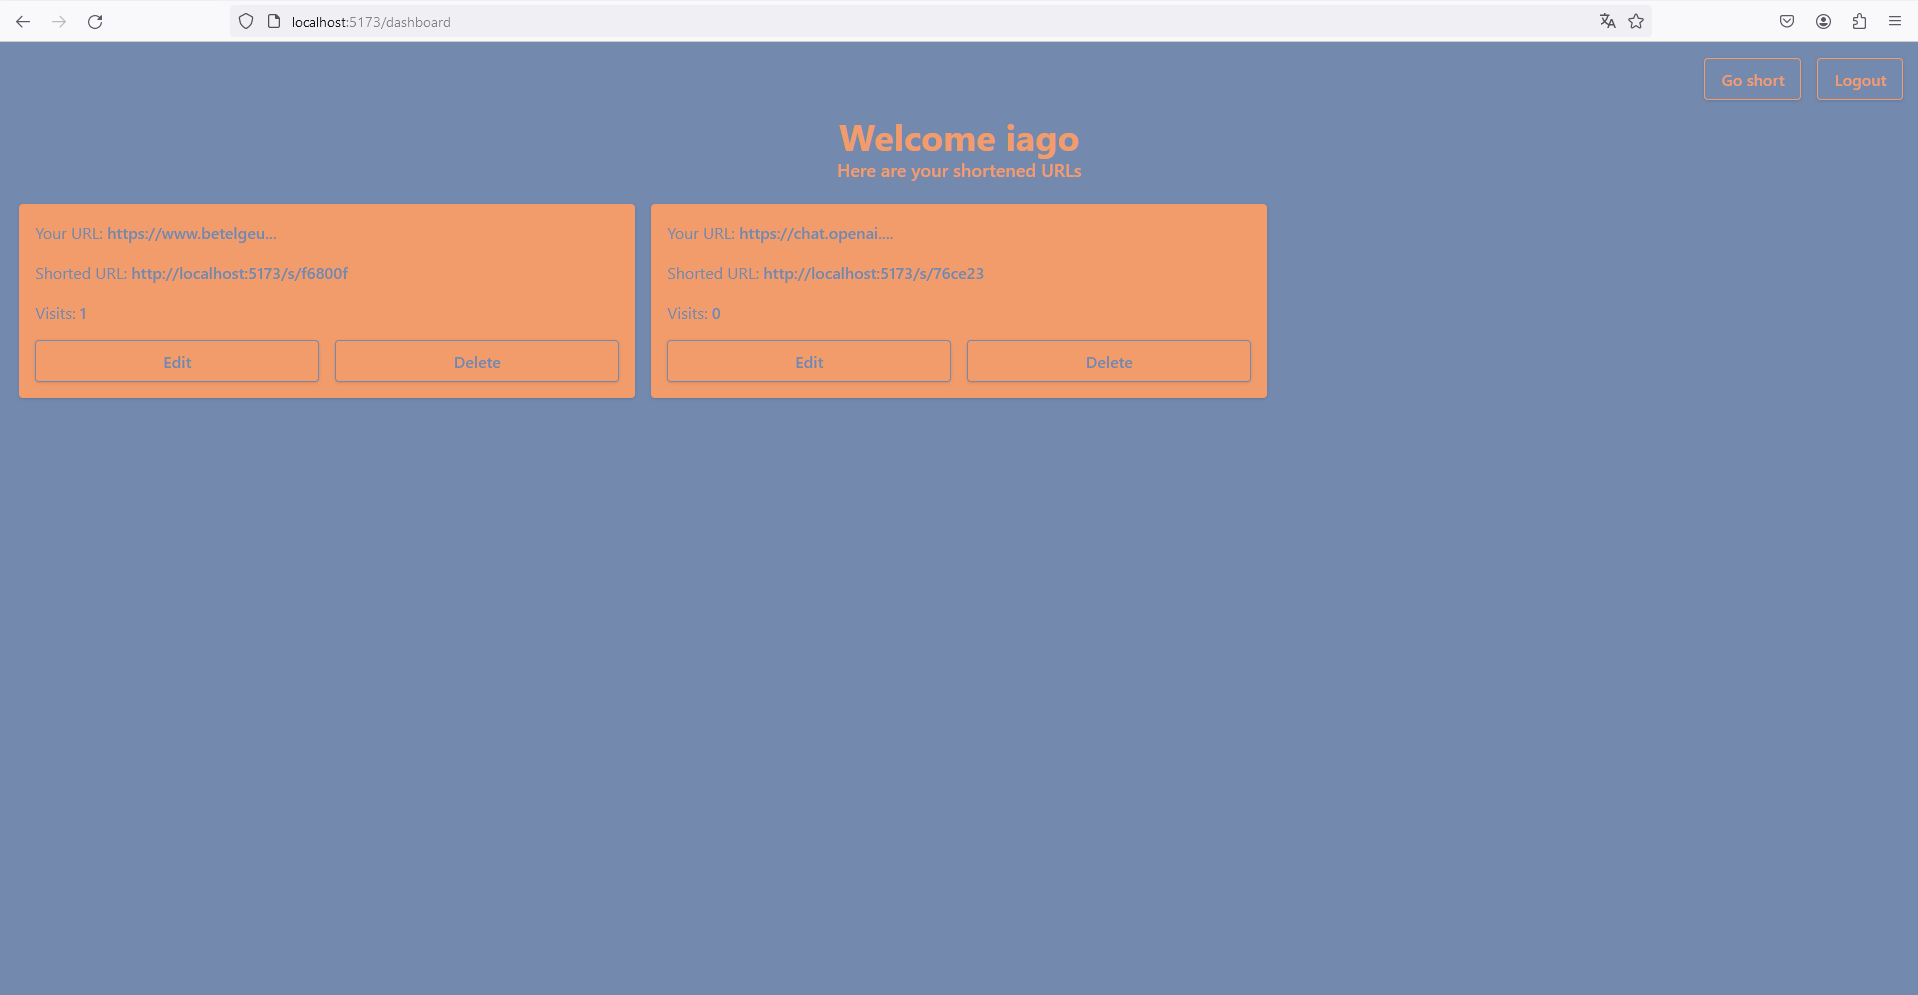
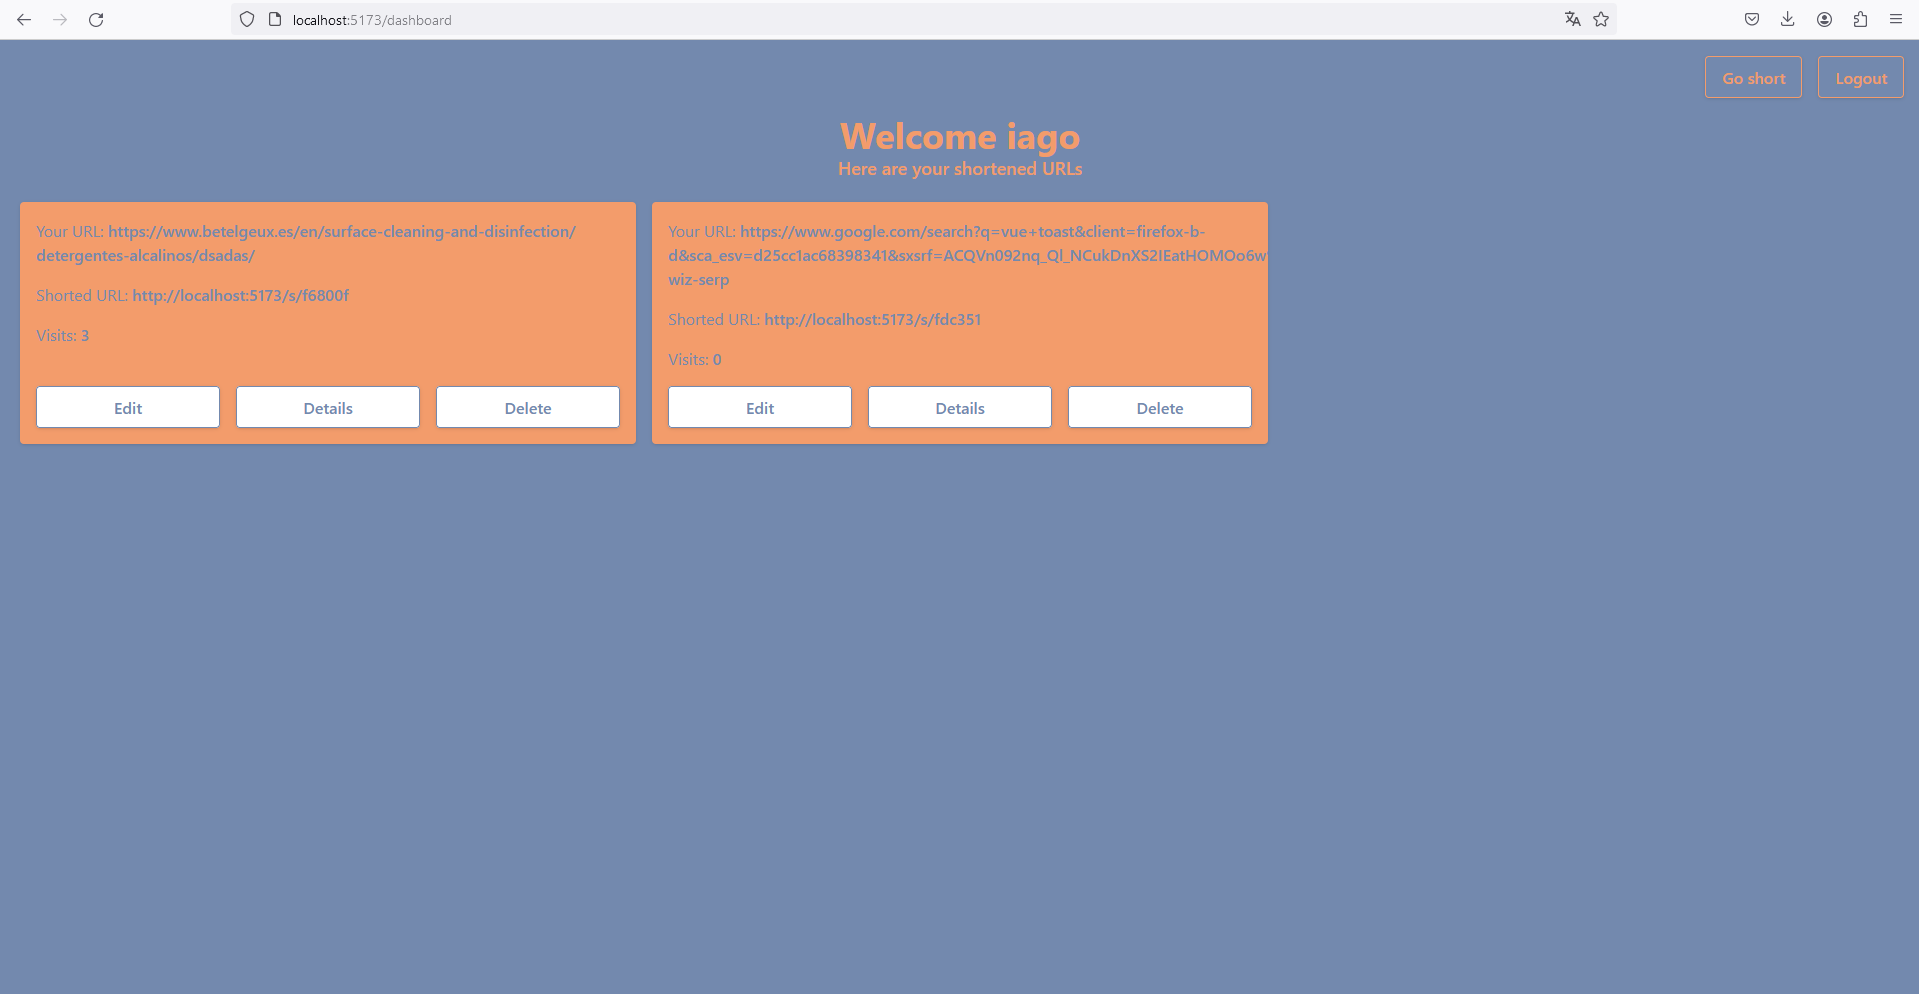
Detalles de clicks

diff --git a/frontend/src/views/Dashboard.vue b/frontend/src/views/Dashboard.vue
@@ -41,14 +41,30 @@ const errors = ref({
 })
 
 const editModal = ref(false)
+const deleteModal = ref(false)
+const detailsModal = ref(false)
 const linkToEdit = ref({
   id: null,
   url: null,
 })
-const showEditModal = (e) => {
+
+const showModal = (e, type = "details", callback = null) => {
   linkToEdit.value = { ...e }
-  editModal.value = true
+
+  switch (type) {
+    case "edit":
+      editModal.value = true
+      break
+    case "details":
+      callback && callback()
+      detailsModal.value = true
+      break
+    case "delete":
+      deleteModal.value = true
+      break
+  }
 }
+
 const onEdit = async () => {
   try {
     const { data, status } = await axios.put("/api/update-url", linkToEdit.value)
@@ -63,11 +79,6 @@ const onEdit = async () => {
   }
 }
 
-const deleteModal = ref(false)
-const showDeleteModal = (e) => {
-  linkToEdit.value = { ...e }
-  deleteModal.value = true
-}
 const onDelete = async () => {
   try {
     const { status } = await axios.delete("/api/delete-url/" + linkToEdit.value.id)
@@ -80,6 +91,37 @@ const onDelete = async () => {
   } catch (error) {
     notiStore.setNotification("An error occurred while deleting the URL", "error")
   }
+}
+
+const clicks = ref({
+  dates: {},
+  user_agents: {},
+})
+const groupClicksInfo = (clk) => {
+  clicks.value.dates = clk.reduce((acc, curr) => {
+    const date = new Date(curr.created_at).toLocaleDateString()
+
+    if (!acc[date]) {
+      acc[date] = 1
+    } else {
+      acc[date]++
+    }
+
+    return acc
+  }, {})
+
+  clicks.value.user_agents = clk.reduce((acc, curr) => {
+    let arr_agent = curr.user_agent.split(" ")
+    curr.user_agent = arr_agent[arr_agent.length - 1]
+
+    if (!acc[curr.user_agent]) {
+      acc[curr.user_agent] = 1
+    } else {
+      acc[curr.user_agent]++
+    }
+
+    return acc
+  }, {})
 }
 
 watch(
@@ -118,6 +160,39 @@ watch(
     </Modal>
 
     <Modal
+      :show="detailsModal"
+      title="Details"
+      actionText="Close"
+      @close="detailsModal = false"
+      @action="detailsModal = false"
+    >
+      <p v-if="linkToEdit.clicks_count == 0" class="text-secun font-semibold text-xl text-center">
+        No visits yet
+      </p>
+      <div v-else class="overflow-hidden">
+        <div class="mb-4">
+          <p class="text-secun font-semibold text-xl">
+            Total visits: <span class="text-secun font-normal">{{ linkToEdit.clicks_count }}</span>
+          </p>
+        </div>
+
+        <div class="mb-4">
+          <p class="text-secun font-semibold text-xl">Clicks by date:</p>
+          <ul class="text-secun">
+            <li v-for="(value, key) in clicks.dates" :key="key">{{ key }}: {{ value }}</li>
+          </ul>
+        </div>
+
+        <div class="mb-4">
+          <p class="text-secun font-semibold text-xl">Clicks by browser:</p>
+          <ul class="text-secun">
+            <li v-for="(value, key) in clicks.user_agents" :key="key">{{ key }}: {{ value }}</li>
+          </ul>
+        </div>
+      </div>
+    </Modal>
+
+    <Modal
       :show="deleteModal"
       title="Delete"
       actionText="Delete"
@@ -135,38 +210,50 @@ watch(
     </div>
 
     <div class="grid grid-cols-1 md:grid-cols-2 lg:grid-cols-3 gap-4 mx-5 my-5">
-      <div v-for="link in links" :key="link.id" class="bg-secun p-4 rounded shadow overflow-hidden">
-        <p class="text-primer mb-4">
-          <span>Your URL:</span>
-          <span class="font-semibold" @click="hidden = !hidden">{{
-            " " + hideText(link.url, link.id)
-          }}</span>
-        </p>
-        <p class="text-primer mb-4">
-          <span>Shorted URL:</span>
-          <router-link
-            :to="`/s/${link.code}`"
-            class="font-semibold transition-colors hover:underline"
-          >
-            {{ " " + baseURL }}/s/{{ link.code }}
-          </router-link>
-        </p>
+      <div
+        v-for="link in links"
+        :key="link.id"
+        class="bg-secun p-4 rounded shadow overflow-hidden flex flex-col justify-between h-full"
+      >
+        <div>
+          <p class="text-primer mb-4">
+            <span>Your URL:</span>
+            <span class="font-semibold" @click="hidden = !hidden">{{
+              " " + hideText(link.url, link.id)
+            }}</span>
+          </p>
+          <p class="text-primer mb-4">
+            <span>Shorted URL:</span>
+            <router-link
+              :to="`/s/${link.code}`"
+              class="font-semibold transition-colors hover:underline"
+            >
+              {{ " " + baseURL }}/s/{{ link.code }}
+            </router-link>
+          </p>
 
-        <p class="text-primer mb-4">
-          <span>Visits:</span>
-          <span class="font-semibold">{{ " " + link.clicks_count }}</span>
-        </p>
+          <p class="text-primer mb-4">
+            <span>Visits:</span>
+            <span class="font-semibold">{{ " " + link.clicks_count }}</span>
+          </p>
+        </div>
 
-        <div class="flex fle-warp gap-4">
+        <div class="grid grid-cols-1 md:grid-cols-3 gap-4">
           <button
-            class="w-full text-primer font-semibold py-2 px-4 border border-primer hover:bg-primer hover:text-secun rounded shadow transition-colors"
-            @click="showEditModal(link)"
+            class="text-primer font-semibold py-2 px-4 border border-primer bg-white hover:bg-primer hover:text-secun rounded shadow transition-colors"
+            @click="showModal(link, 'edit')"
           >
             Edit
           </button>
           <button
-            class="w-full text-primer font-semibold py-2 px-4 border border-primer hover:bg-primer hover:text-secun rounded shadow transition-colors"
-            @click="showDeleteModal(link)"
+            class="text-primer font-semibold py-2 px-4 border border-primer bg-white hover:bg-primer hover:text-secun rounded shadow transition-colors"
+            @click="showModal(link, 'details', groupClicksInfo(link.clicks))"
+          >
+            Details
+          </button>
+          <button
+            class="text-primer font-semibold py-2 px-4 border border-primer bg-white hover:bg-primer hover:text-secun rounded shadow transition-colors"
+            @click="showModal(link, 'delete')"
           >
             Delete
           </button>

diff --git a/backend/app/Models/Click.php b/backend/app/Models/Click.php
@@ -17,6 +17,10 @@ class Click extends Model
         'link_id' => 'integer',
     ];
 
+    protected $hidden = [
+        'updated_at',
+    ];
+
     public function link()
     {
         return $this->belongsTo(Link::class);

diff --git a/readme.md b/readme.md
@@ -59,3 +59,11 @@ Al registrarse se les pedirá un nombre de usuario, un email y una contraseña, 
 Al loguearse se les redirigirá a la página de inicio, pero ahora podrán ver un listado de todas las URLs que han acortado y el número de veces que han sido visitadas al entrar en el apartado Dashboard del usuario, además de disfrutar de acceso ilimitado a los links.
 
 ![Página de dashboard](readme/images/dashboard.png)
+
+En la página de dashboard podrán ver un listado de todas las URLs que han acortado y el número de veces que han sido visitadas, además de poder gestionar las URLs pudiendo editarlas o eliminarlas si así lo desean.
+
+![Página de dashboard](readme/images/modal.png)
+
+Además encontraremos un apartado de información, aquí podremos ver información sobre los clicks, como el número de clicks totales, el número de clicks por fecha y el número de clicks por navegador.
+
+![Página de información](readme/images/detalles.png)
